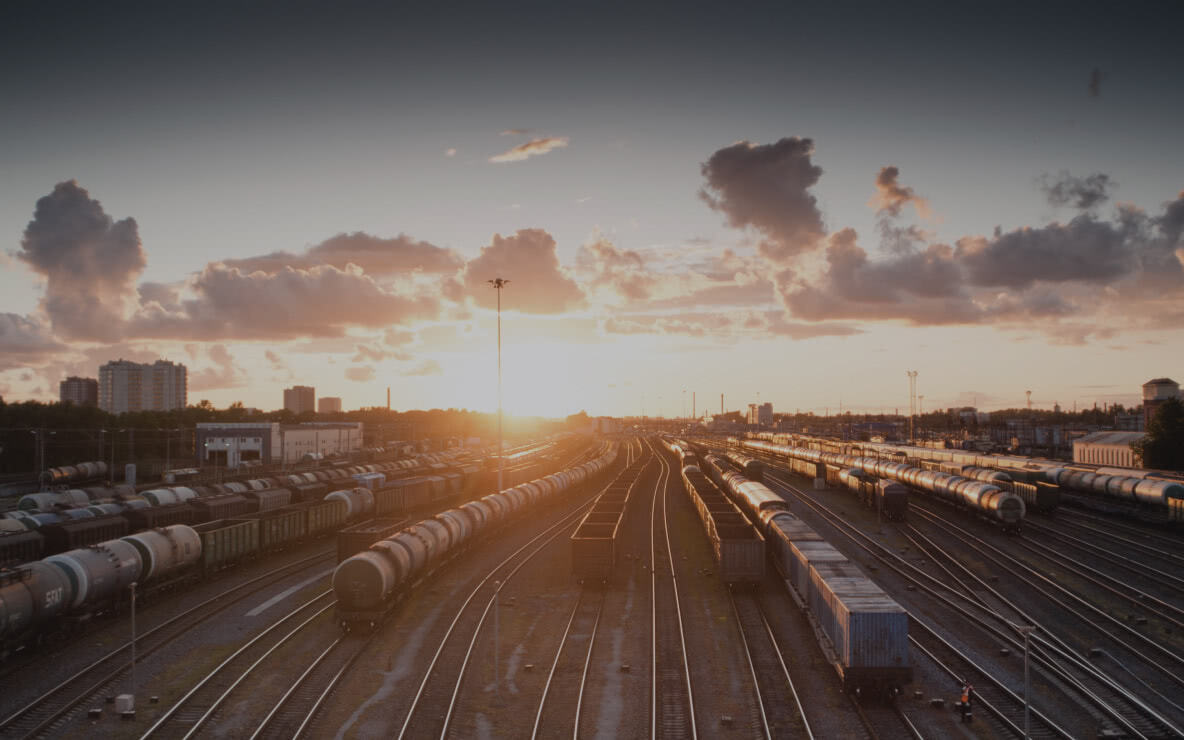
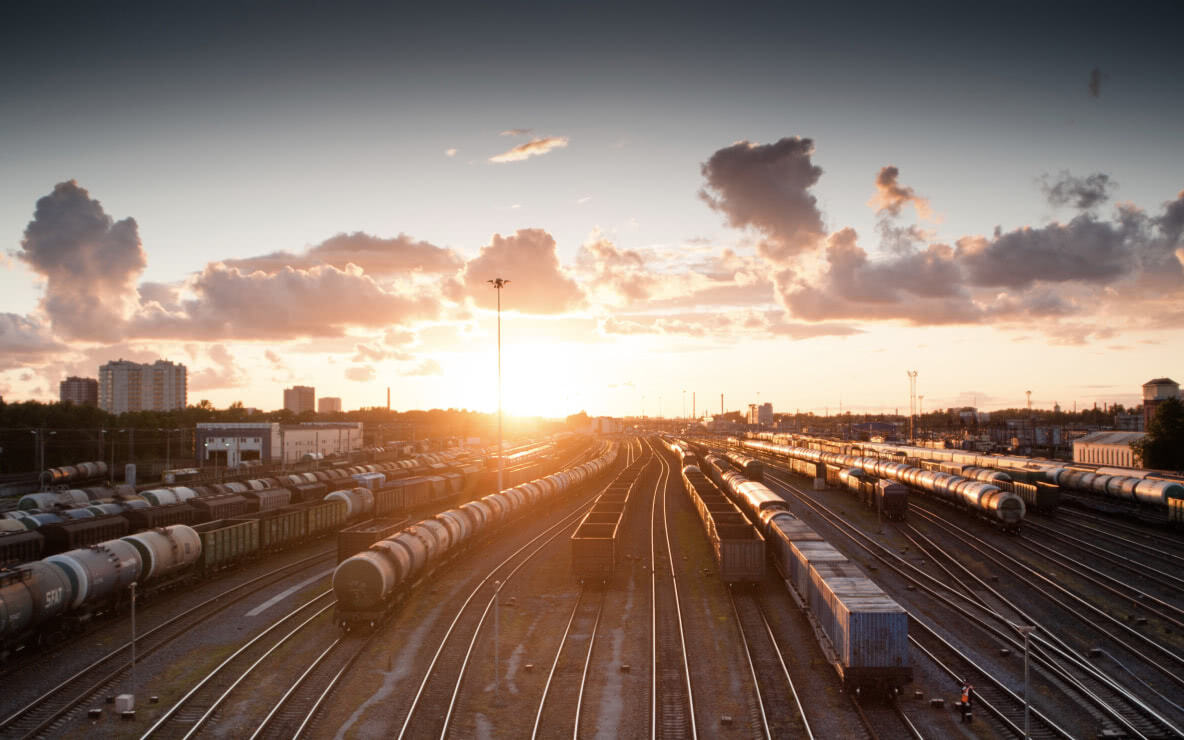
Исправлены косяки 1

diff --git a/index.html b/index.html
@@ -10,18 +10,7 @@
   <meta name="author" content="Слаутин Алексей">
   <meta name="copyright" content="Все права принадлежат: ООО 'Яндекс'">
 
-  <link rel="apple-touch-icon" sizes="180x180" href="/images/favicon/apple-touch-icon.png">
-  <link rel="icon" type="image/png" sizes="32x32" href="/images/favicon/favicon-32x32.png">
-  <link rel="icon" type="image/png" sizes="194x194" href="/images/favicon/favicon-194x194.png">
-  <link rel="icon" type="image/png" sizes="192x192" href="/images/favicon/android-chrome-192x192.png">
-  <link rel="icon" type="image/png" sizes="16x16" href="/images/favicon/favicon-16x16.png">
-  <link rel="manifest" href="/images/favicon/site.webmanifest">
-  <link rel="mask-icon" href="/images/favicon/safari-pinned-tab.svg" color="#7a7a7a">
-  <link rel="shortcut icon" href="/images/favicon/favicon.ico">
-  <meta name="msapplication-TileColor" content="#6f6f6f">
-  <meta name="msapplication-TileImage" content="/images/favicon/mstile-144x144.png">
-  <meta name="msapplication-config" content="/images/favicon/browserconfig.xml">
-  <meta name="theme-color" content="#ffffff">
+  <link rel="icon" type="image/svg+xml" href="./images/favicon/favicon.svg">
 
   <link rel="stylesheet" href="./pages/index.css">
 </head>
@@ -65,34 +54,24 @@
           Мы выбрали и описали некоторые интересные места, достойные вашего отпуска.
         </p>
         <ul class="intro__list">
-          <li>
-            <p class="intro__list-item">
-              Часовых поясов <span class="intro__list-item_weight">11</span>
-            </p>
+          <li class="intro__list-item">
+            Часовых поясов <span class="intro__list-item_weight">11</span>
           </li>
-          <li>
-            <p class="intro__list-item">
-              Объектов природного наследия ЮНЕСКО <span class="intro__list-item_weight">12</span>
-            </p>
+          <li class="intro__list-item">
+            Объектов природного наследия ЮНЕСКО <span class="intro__list-item_weight">12</span>
           </li>
-          <li>
-            <p class="intro__list-item">
-              Объектов культурного наследия ЮНЕСКО <span class="intro__list-item_weight">16</span>
-            </p>
+          <li class="intro__list-item">
+            Объектов культурного наследия ЮНЕСКО <span class="intro__list-item_weight">16</span>
           </li>
-          <li>
-            <p class="intro__list-item">
+          <li class="intro__list-item">
               Природных заповедников <span class="intro__list-item_weight">105</span>
-            </p>
           </li>
-          <li>
-            <p class="intro__list-item">
-              Аэропортов <span class="intro__list-item_weight">241</span>
-            </p>
+          <li class="intro__list-item">
+            Аэропортов <span class="intro__list-item_weight">241</span>
           </li>
         </ul>
       </section>
-      <div class="gallery page__gallery">
+      <section class="gallery page__gallery">
         <ul class="photo-grid gallery__photo-grid">
           <li class="photo-grid__item">
             <img class="photo-grid__item-image" src="./images/photo-grid__item-1.jpg" alt="Вид на природу из окна поезда">
@@ -131,7 +110,7 @@
             <img class="photo-grid__item-image" src="./images/photo-grid__item-12.jpg" alt="Горы в белоснежном тумане">
           </li>
         </ul>
-      </div>
+      </section>
       <section class="places page__places">
         <ul class="places__list">
           <li class="place">
@@ -251,14 +230,14 @@
         </ul>
       </section>
       <section class="cover page__cover">
-        <h2 class="cover__title">
-          <a href="https://stampsy.com/na-elektrichkakh-do-baikala" target="_blank" class="cover__link link">
-            До Байкала «на собаках»
-          </a>
-        </h2>
-        <p class="cover__subtitle">
-          По мотивам учебной темы о Транссибе — путешествие от столицы до Байкала на электричках.
-        </p>
+        <a href="https://stampsy.com/na-elektrichkakh-do-baikala" target="_blank" class="cover__link">
+          <h2 class="cover__title">
+              До Байкала «на собаках»
+          </h2>
+          <p class="cover__subtitle">
+            По мотивам учебной темы о Транссибе — путешествие от столицы до Байкала на электричках.
+          </p>
+        </a>
       </section>
     </main>
     <footer class="footer page__footer">

diff --git a/blocks/cover/cover.css b/blocks/cover/cover.css
@@ -1,32 +1,10 @@
 .cover{
-  position: relative;
   max-width: 1184px;
   min-height: 740px;
-  display: flex;
-  flex-direction: column;
-  justify-content: center;
-  align-items: center;
   background-image: url(.././../images/cover__background.jpg);
   background-repeat: no-repeat;
   background-size: cover;
   background-position: center;
-}
-.cover::before{
-	content: '';
-	display: block;
-	width: 100%;
-	height: 100%;
-	position: absolute;
-	top: 0;
-	left: 0;
-	right: 0;
-	bottom: 0;
-	background-color:rgba(0, 0, 0, 0);
-  z-index: 1;
-  transition: 0.5s;
-}
-.cover:hover::before{
-  background-color:rgba(0, 0, 0, 0.25);
 }
 
 @media (max-width:1024px) {

diff --git a/blocks/cover/__link/cover__link.css b/blocks/cover/__link/cover__link.css
@@ -1,6 +1,34 @@
 .cover__link{
   margin: 0;
   padding: 0;
+  display: flex;
+  flex-direction: column;
+  justify-content: center;
+  align-items: center;
+  min-height: 740px;
   text-decoration: none;
   color: #fff;
+  background-color: rgba(42, 44, 47, 0.3);
+  transition: 0.5s;
+}
+.cover__link:hover{
+  background-color: rgba(42, 44, 47, 0.8);
+}
+
+@media (max-width:1024px) {
+  .cover__link{
+    min-height: 640px;
+  }
+}
+
+@media (max-width:768px) {
+  .cover__link{
+    min-height: 480px;
+  }
+}
+
+@media (max-width:400px) {
+  .cover__link{
+    min-height: 200px;
+  }
 }

diff --git a/pages/index.css b/pages/index.css
@@ -51,7 +51,6 @@
 @import url(../blocks/cover/__title/cover__title.css);
 @import url(../blocks/cover/__link/cover__link.css);
 @import url(../blocks/cover/__subtitle/cover__subtitle.css);
-@import url(../blocks/cover/__background/cover__background.css);
 
 @import url(../blocks/page/__footer/page__footer.css);
 @import url(../blocks/footer/footer.css);

diff --git a/blocks/place/__image/place__image.css b/blocks/place/__image/place__image.css
@@ -1,13 +1,3 @@
 .place__image{
   width: 100%;
-  transition: 0.7s;
-}
-.place__image:hover{
-  transform: scale(1.1);
-}
-
-@media (max-width:768px) {
-  .place__image:hover{
-    transform: scale(1);
-  }
 }

diff --git a/blocks/intro/__title/intro__title.css b/blocks/intro/__title/intro__title.css
@@ -7,6 +7,12 @@
   line-height: 58px;
 }
 
+@media (max-width:768px) {
+  .intro__title{
+    max-width: 720px;
+  }
+}
+
 @media (max-width:450px) {
   .intro__title{
     font-size: 32px;

diff --git a/blocks/footer/__list/footer__list.css b/blocks/footer/__list/footer__list.css
@@ -12,7 +12,6 @@
 @media (max-width:500px) {
   .footer__list{
     flex-direction: column;
-    justify-content: flex-start;
     align-items: flex-start;
     gap: 32px;
   }

diff --git a/blocks/place/place.css b/blocks/place/place.css
@@ -12,7 +12,6 @@
 @media (max-width:1024px) {
   .place{
     grid-template-columns: minmax(0, 440px) minmax(0, 456px);
-    row-gap: 48px;
     column-gap: 32px;
   }
 }

diff --git a/blocks/photo-grid/__item-image/photo-grid__item-image.css b/blocks/photo-grid/__item-image/photo-grid__item-image.css
@@ -1,7 +1,3 @@
 .photo-grid__item-image{
   width: 100%;
-  transition: 0.5s;
-}
-.photo-grid__item-image:hover{
-  transform: scale(1.2);
 }

diff --git a/blocks/header/header.css b/blocks/header/header.css
@@ -19,3 +19,9 @@
     padding: 28px 16px 48px;
   }
 }
+
+@media (max-width:450px) {
+  .header{
+    padding: 16px 16px 48px;
+  }
+}

diff --git a/blocks/intro/__text/intro__text.css b/blocks/intro/__text/intro__text.css
@@ -3,3 +3,9 @@
   padding: 0;
   max-width: 690px;
 }
+
+@media (max-width:768px) {
+  .intro__text{
+    max-width: 720px;
+  }
+}

diff --git a/blocks/cover/__subtitle/cover__subtitle.css b/blocks/cover/__subtitle/cover__subtitle.css
@@ -5,7 +5,6 @@
   font-size: 18px;
   line-height: 22px;
   text-align: center;
-  z-index: 2;
 }
 
 @media (max-width:450px) {
